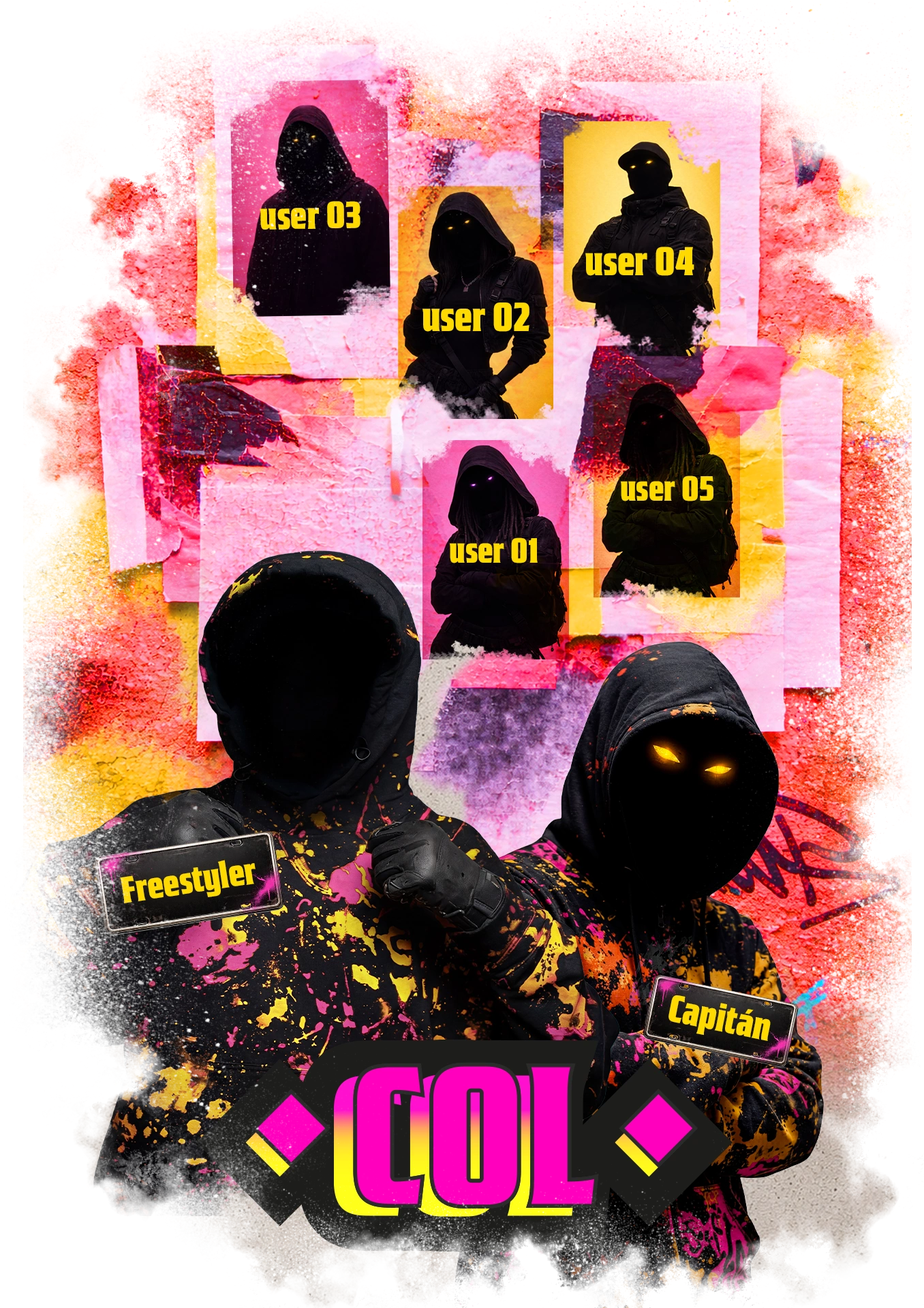
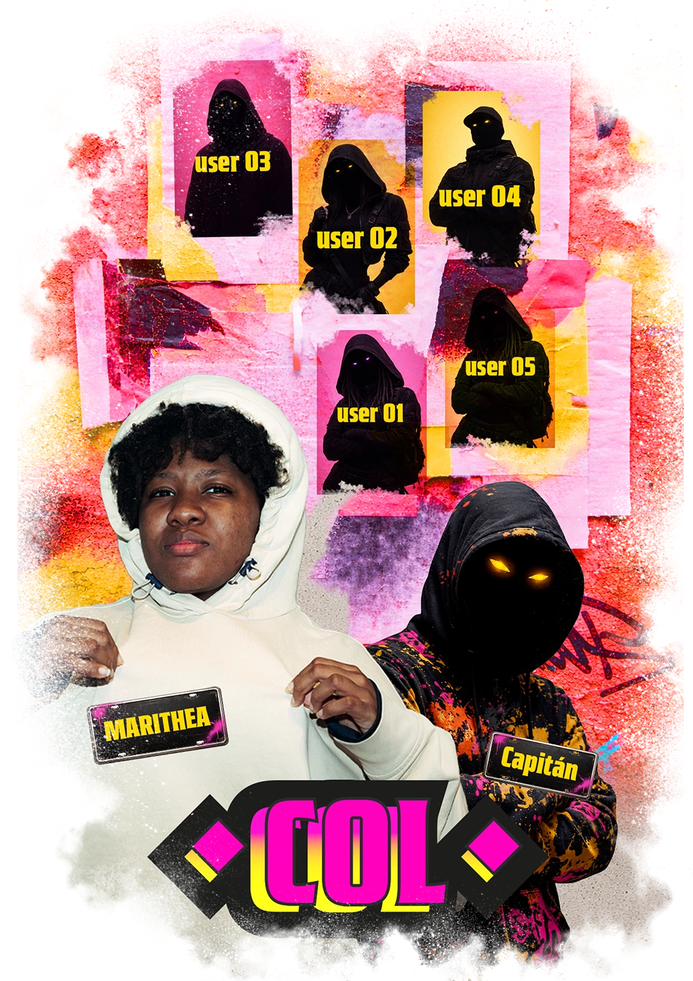
new images

diff --git a/src/components/HomePage/MainHost.js b/src/components/HomePage/MainHost.js
@@ -16,13 +16,13 @@ import postermobil5 from "../../assets/posters/5_Poster PE_EC.webp";
 import postermobil6 from "../../assets/posters/6_host_and-main.webp";
 import postermobil7 from "../../assets/posters/7_HostMov.webp";
 
-import posterdesktop1 from "../../assets/desktop/PostersPais/1_Poster MX.webp";
-import posterdesktop2 from "../../assets/desktop/PostersPais/2_Poster COL.webp";
-import posterdesktop3 from "../../assets/desktop/PostersPais/3_Poster ARG.webp";
-import posterdesktop4 from "../../assets/desktop/PostersPais/4_Poster CL.webp";
-import posterdesktop5 from "../../assets/desktop/PostersPais/5_Poster PE_EC.webp";
-import posterdesktop6 from "../../assets/desktop/PostersPais/6_host_and-main.webp";
-import posterdesktop7 from "../../assets/desktop/PostersPais/7_Caster.webp";
+import posterdesktop1 from "../../assets/desktop/PostersPais/1_Poster MX_ACZINO.webp";
+import posterdesktop2 from "../../assets/desktop/PostersPais/2_Poster COL_Marithea.webp";
+import posterdesktop3 from "../../assets/desktop/PostersPais/3_Poster ARG_Stuart.webp";
+import posterdesktop4 from "../../assets/desktop/PostersPais/4_Poster CL_ElMenor.webp";
+import posterdesktop5 from "../../assets/desktop/PostersPais/5_Poster PE_EC_Nekroos.webp";
+import posterdesktop6 from "../../assets/desktop/PostersPais/6_Caster.webp";
+import posterdesktop7 from "../../assets/desktop/PostersPais/7_Host.webp";
 
 import { useViewport } from "../../context/ViewportContext";
 const MainHost = () => {
